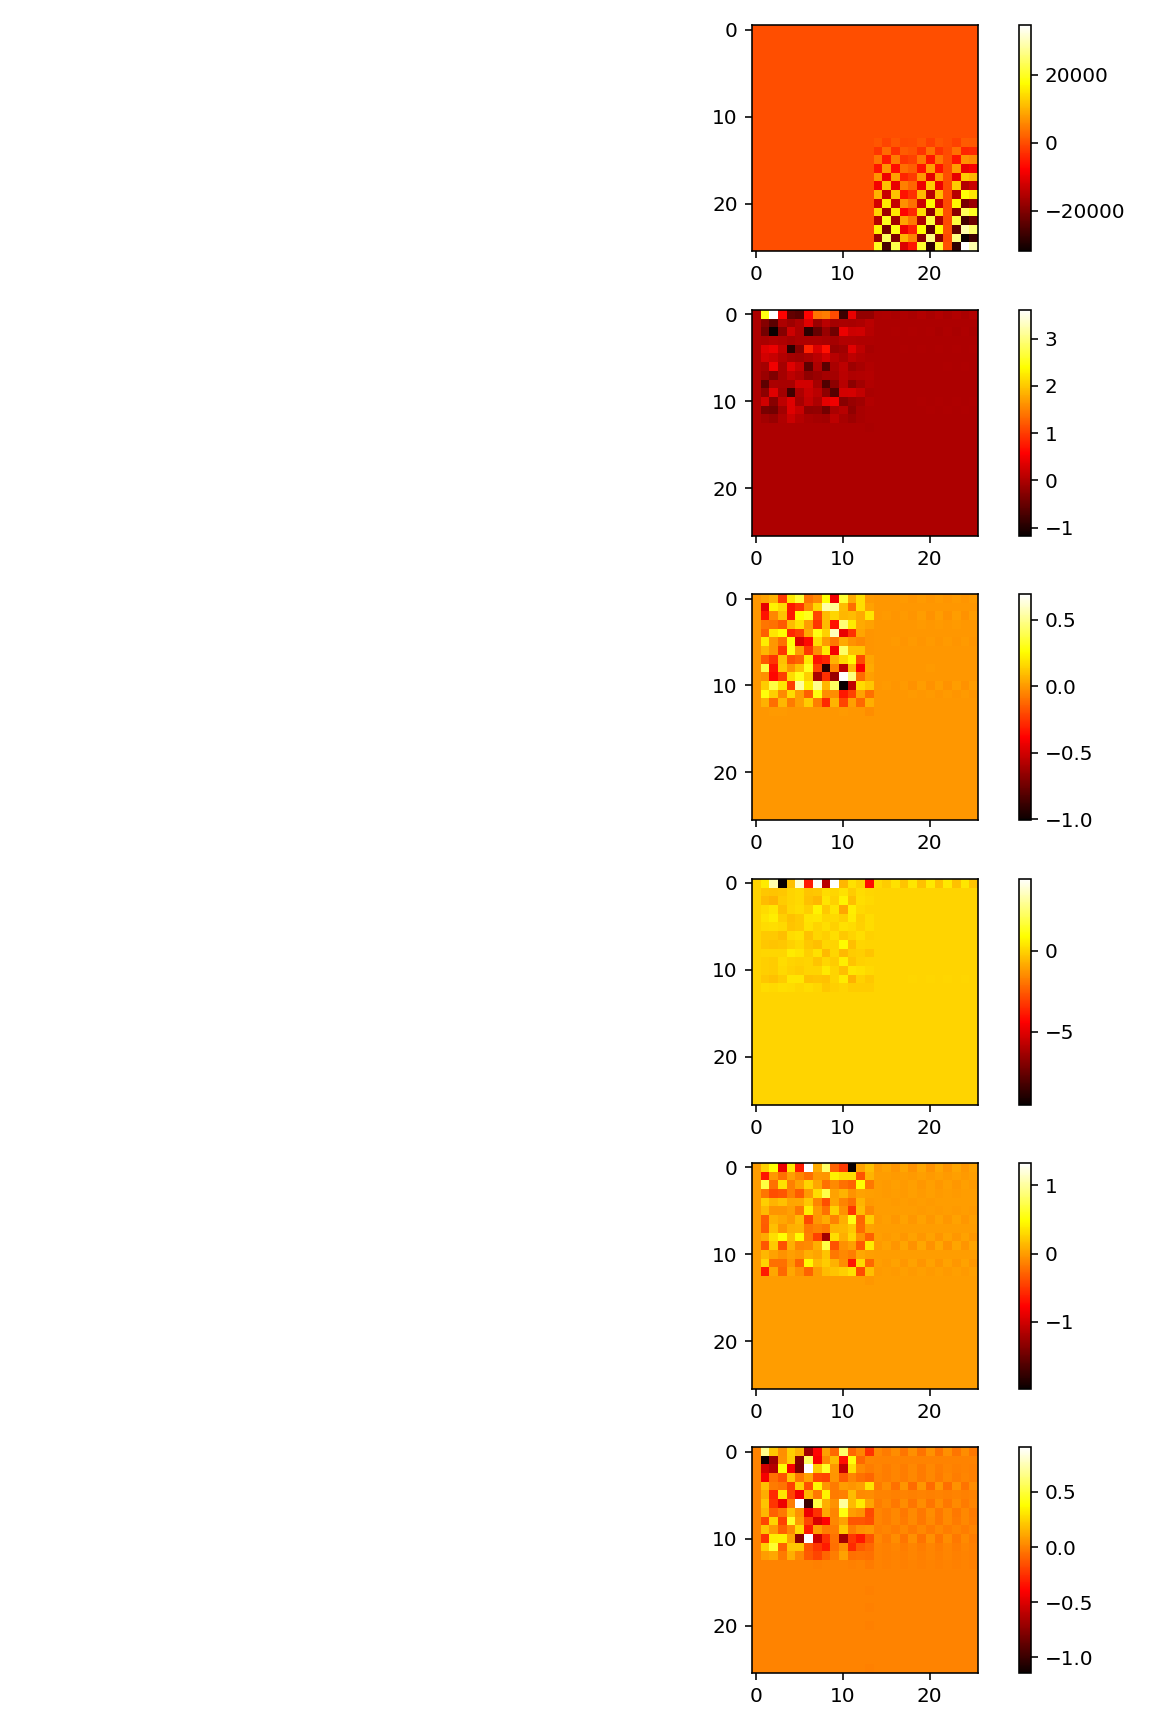
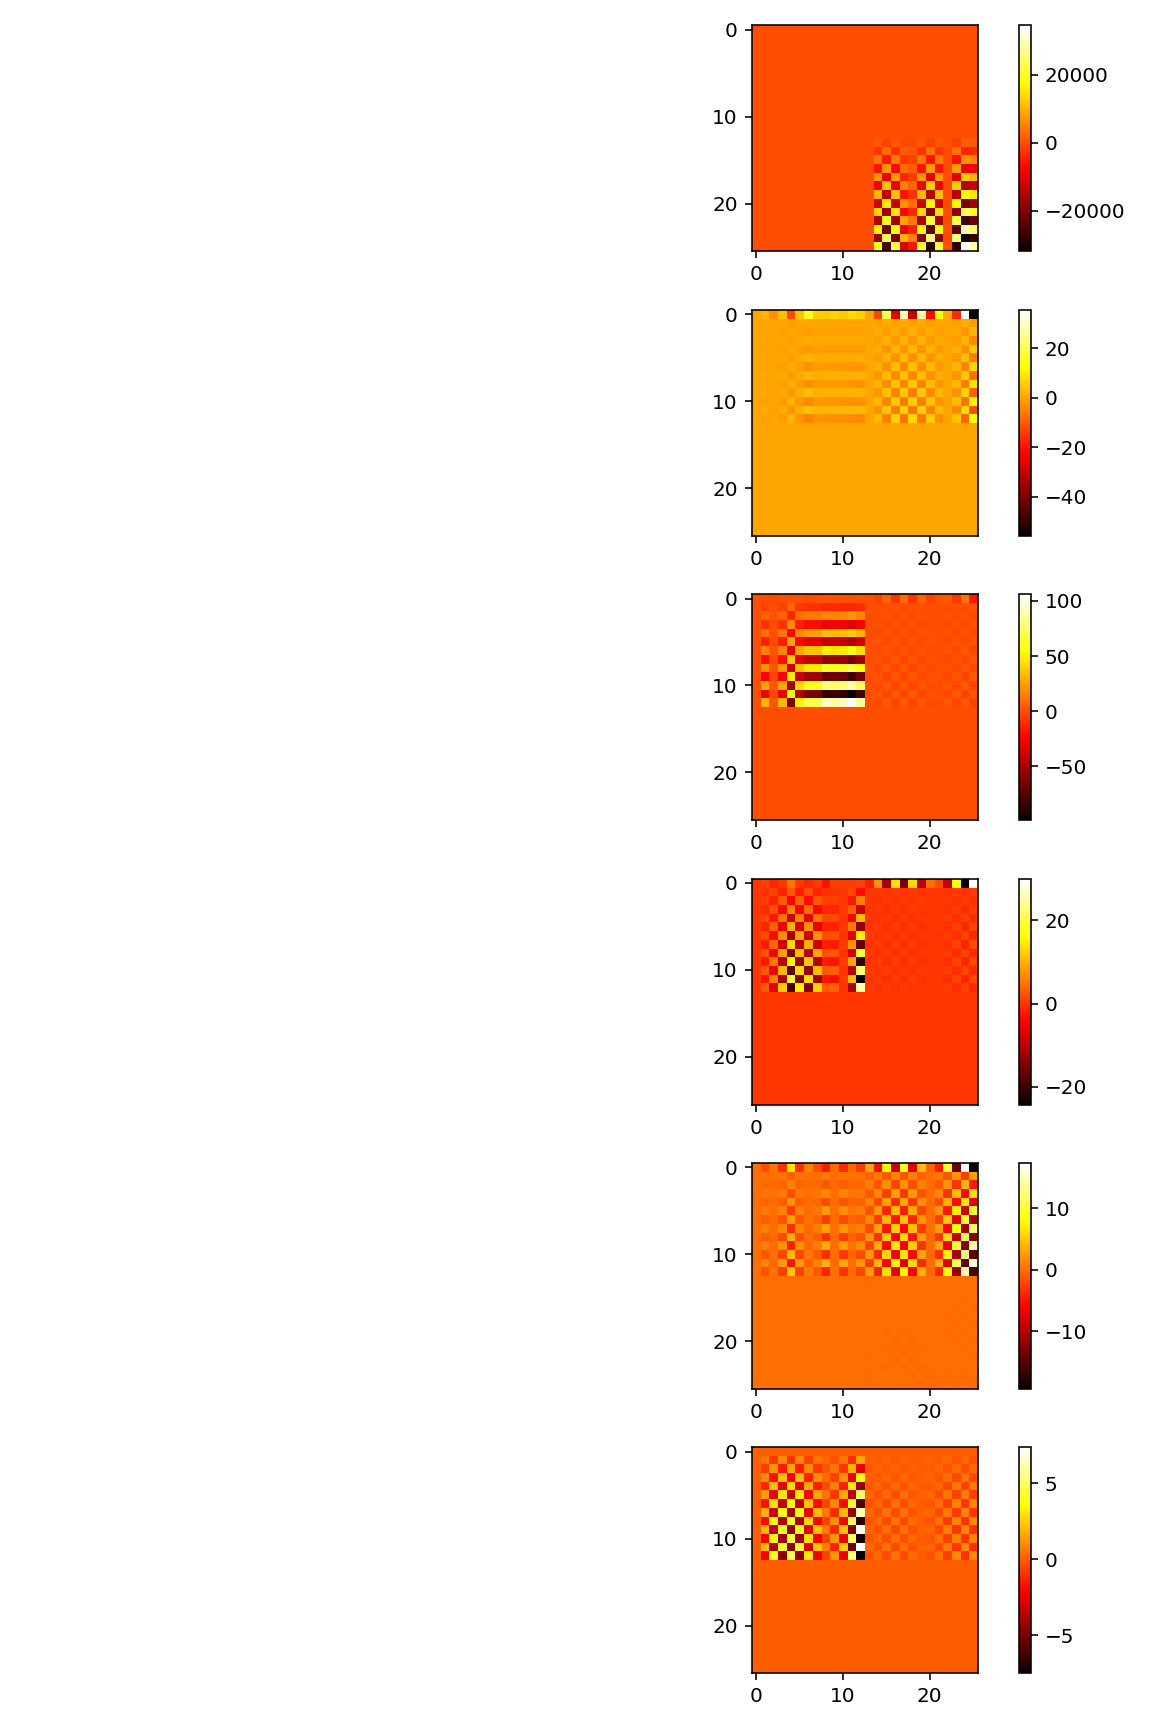
corrected overzealous suggestions, working currently

diff --git a/bte_1d_fluxlearn.py b/bte_1d_fluxlearn.py
@@ -23,13 +23,13 @@ x = np.linspace(0.0, L, Nx)
 xcenter = x[Linert:Mactive]
 with open("bte_1d_flux.pkl", "rb") as f:
     ts, npop, flux = pickle.load(f) #next time I should have x, xcenter come through the pickle
-npop *= 1e-9 #Scaling to natural dimension
-Nunits = '[1e9]'
+npop *= 1e-8 #Scaling to natural dimension
+Nunits = '[1e8]'
 flux *= 1e-6
 Funits = '[1e6]'
 if bPlot:# Just a little plotting of as-loaded contours
     mpl.rcParams.update({"figure.figsize": (7, 4)})
-    time_slice = np.linspace(1,len(ts),20,dtype=int)
+    time_slice = np.linspace(1,len(ts)-1,20,dtype=int)
     ts_short = ts[time_slice]
     Nshort = npop[time_slice]
     for Ns in Nshort:
@@ -50,7 +50,7 @@ if bPlot:# Just a little plotting of as-loaded contours
 from numpy.linalg import svd,eig
 fig, axs = plt.subplots(figsize=(6,4))
 def decompose_field(x,T, deg_x= 12):
-    from numpy.polynomial.legendre import legvander,legval
+    from numpy.polynomial.legendre import legvander
     # Rescale coordinates to [-1, 1]
     x_scaled = 2 * (x - x.min()) / (x.max() - x.min()) - 1
     
@@ -74,13 +74,12 @@ def interp_temp(x,c):
 
 def loadGinterpolants(ts, field, nevery, deg_x=12, bPlot=False):
     G = [] #This is a list of Legendre coefficients every n'th time point
-    time_slice = np.arange(0,len(ts)+1,nevery,dtype=int)
+    time_slice = np.arange(0,len(ts),nevery,dtype=int)
     #time_slice = np.linspace(1,len(ts),20,dtype=int)
-    ts_short = ts[time_slice]
     Fshort = field[time_slice]
     for Fs in Fshort:
         c=decompose_field(xcenter,Fs.T[Linert:Mactive], deg_x)
-        G.append(c) #unnecessary [:,0])
+        G.append(c[:,0]) #chatgpt says unnecessary [:,0])
         if bPlot: #Plot efficiency of Legendre interpolation
             F = interp_temp(xcenter,c)
             plt.plot(xcenter ,F)
@@ -101,7 +100,7 @@ def pseudo_inverse_from_svd(u, s, vt, r=None, tol=1e-12):
     s_inv[:r] = 1.0 / s[:r]
     #U_r = u[:, :r], S_r = s[:r], Vt_r = v[:r, :] (depending on numpy.linalg.svd output u,s,vt).
     #v.T[:,0:cmp]@np.diag(sinv[0:cmp])@u.T[0:cmp,:]
-    return (vt.T[:, :r] * s_inv) @ u.T[:r, :]  # returns X^+ (shape matches)
+    return (vt.T[:, :r] @ np.diag(s_inv[:r])) @ u.T[:r, :]  # returns X^+ (shape matches)
 
 deg_Leg = 12
 G,time_slice = loadGinterpolants(ts, npop, 20, deg_Leg)
@@ -122,11 +121,11 @@ for i in range(len(G)-npts):
     #Presume Y(posterior)=A(system transform)*X(prior), then Y=AUSV
     u,s,vt = svd(X,full_matrices=False) #full matrices=false, want to be able to compress, S has nonzero only
     #print(s)
-    #print(Y.shape,v.T[:,0:cmp].shape,u.T[0:cmp,:].shape)
+    #print(Y.shape,vt.T[:,0:cmp].shape,u.T[0:cmp,:].shape)
     #sinv = 1./s #diagonal singular values, I guess vectorized
-    X_pinv = pseudo_inverse_from_svd(u, s, vt) # v.T@np.diag(sinv)@u.T
+    X_pinv = pseudo_inverse_from_svd(u, s, vt, npts) # v.T@np.diag(sinv)@u.T
     A = Y@X_pinv #Use SVD as pseudoinverse of X on Y to get system response
-    X_pinv = pseudo_inverse_from_svd(u, s, vt, r=cmp) # v.T[:,0:cmp]@np.diag(sinv[0:cmp])@u.T[0:cmp,:]
+    X_pinv = pseudo_inverse_from_svd(u, s, vt, cmp) # v.T[:,0:cmp]@np.diag(sinv[0:cmp])@u.T[0:cmp,:]
     Ac = Y@X_pinv #compressed versions
     Lam,Xi = eig(A)
     Lam = np.diag(Lam)
@@ -186,9 +185,9 @@ for i,ax in enumerate(axs):
     #print(u.shape,v.shape)
     x_deg = u.shape[0]//2
     #print(Y.shape,v.T[:,0:cmp].shape,u.T[0:cmp,:].shape)
-    X_pinv = pseudo_inverse_from_svd(u, s, vt) # v.T@np.diag(sinv)@u.T
+    X_pinv = pseudo_inverse_from_svd(u, s, vt, npts) # v.T@np.diag(sinv)@u.T
     A = Y@X_pinv #Use SVD as pseudoinverse of X on Y to get system response
-    X_pinv = pseudo_inverse_from_svd(u, s, vt, r=cmp) # v.T[:,0:cmp]@np.diag(sinv[0:cmp])@u.T[0:cmp,:]
+    X_pinv = pseudo_inverse_from_svd(u, s, vt, cmp) # v.T[:,0:cmp]@np.diag(sinv[0:cmp])@u.T[0:cmp,:]
     Ac = Y@X_pinv #compressed versions
     #print(A[:,0:x_deg].shape)
     #I don't remember what this next comment block was doing
@@ -205,7 +204,7 @@ for i,ax in enumerate(axs):
     Lam,Xi = eig(Ardc0)
     Lam = np.diag(np.abs(Lam))'''
     lAc.append(A) #list of transformations from one major stride to next
-    for axi,M in zip(ax,[u[:,:cmp],np.diag(s[:cmp]),v[:cmp,:],Ac,A,Lam,Xi.real,Xi.imag][:nM]):
+    for axi,M in zip(ax,[u[:,:cmp],np.diag(s[:cmp]),vt[:cmp,:],Ac,A,Lam,Xi.real,Xi.imag][:nM]):
         im = axi.imshow(M, cmap='hot', vmin=-1,vmax=1,
            origin='upper', interpolation='nearest', aspect='equal')
         fig.colorbar(im, ax=axi, fraction=0.046, pad=0.04)
@@ -283,7 +282,7 @@ time_slice =np.linspace(100,5000,nepoch,dtype=int) #these i values are the epoch
 avg_weights = [1.]
 for _ in range(deg_Leg//2):
     avg_weights += [0.,1.]
-if deg_Leg%2 ~= 0:
+if deg_Leg%2 != 0:
     avg_weights += [0.]
 H = np.array(avg_weights,dtype=float).reshape((deg_Leg+1,1)) #Average of Legendre polynomial is the sum of even Pn coefficients, c0+c2+c4...
 
